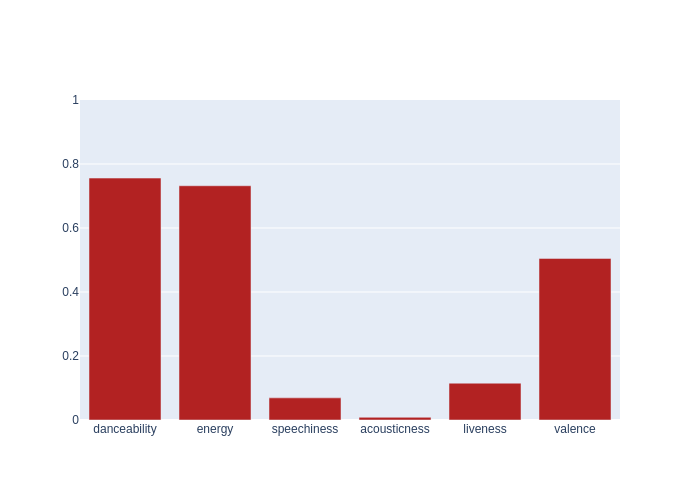
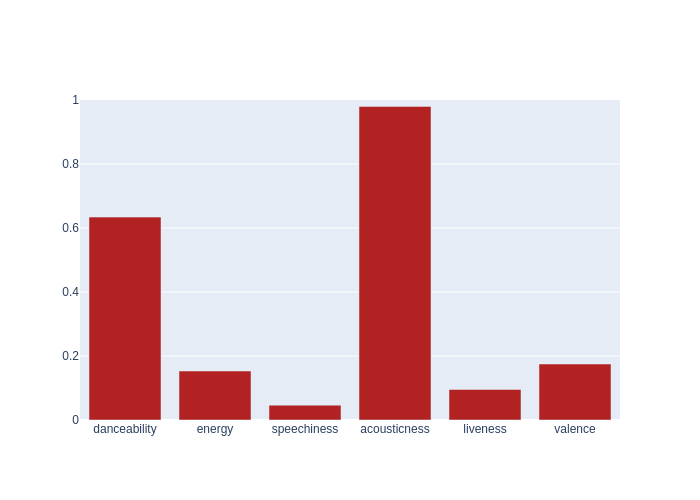
Automated README update

Changed region(s): [[0.36, 0.21, 0.75, 0.84], [0.12, 0.33, 0.36, 0.75], [0.75, 0.51, 0.87, 0.75]]

diff --git a/README.md b/README.md
@@ -4,7 +4,7 @@ Automated music metrics for fun, updated hourly.
 
 ## Spotify
 
-- currently listening to **Otis Kane - Run**
+- currently listening to **Akīn - Ancestors**
 
 - **850** liked songs
 - **132** playlists
